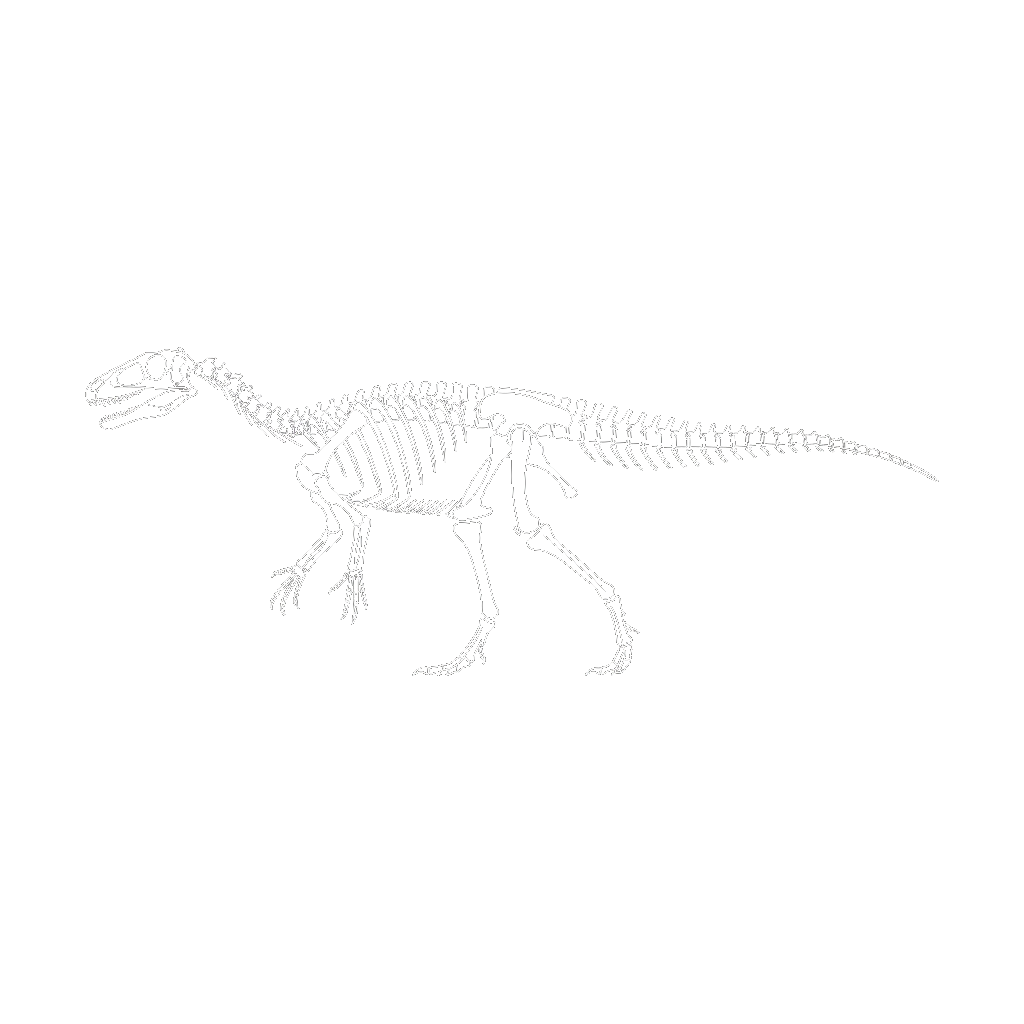
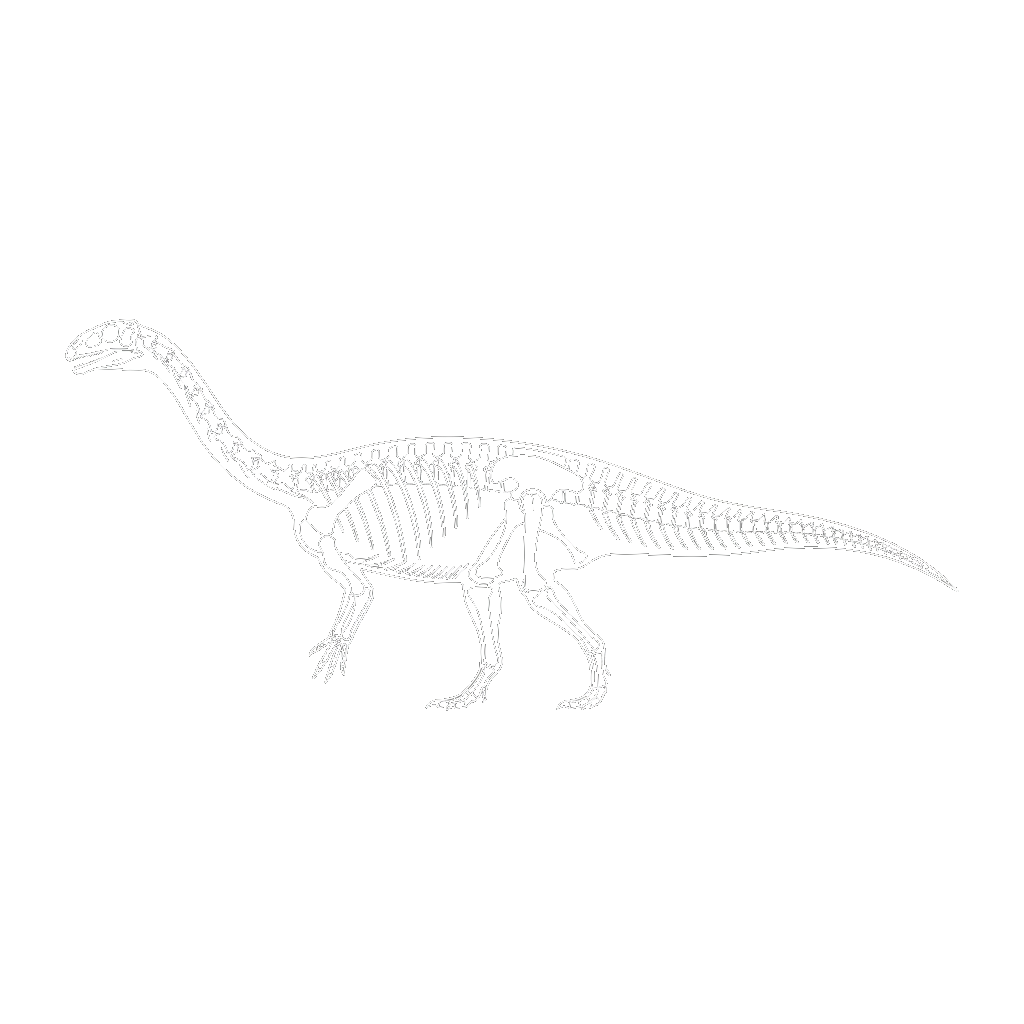
feat: ルーフェンゴサウルスの首長化・骨格見切れ修正 & Part 3 残り4種追加 (オメイサウルス, ラペトサウルス, オピストコエリカウディア, テコドントサウルス)

diff --git a/src/content/dinosaurs/opisthocoelicaudia.md b/src/content/dinosaurs/opisthocoelicaudia.md
@@ -1,0 +1,30 @@
+---
+id: "opisthocoelicaudia"
+name: "オピストコエリカウディア"
+kana: "おぴすとこえりかうでぃあ"
+scientificName: "Opisthocoelicaudia skarzynskii"
+era: "白亜紀後期"
+region: "アジア"
+diet: "植物食"
+length: "12.0m"
+weight: "8.0t"
+image: "images/opisthocoelicaudia.webp"
+group: "竜脚類"
+description: "尾の構造が非常に頑丈で、直立して高所の植物を食べられた可能性のある竜脚類。"
+bioTraits:
+  - trait: "適応"
+    value: "三点倒立直立"
+    detail: "頑丈な尾と後肢で三点支持を作り、直立して超高所の木の葉を採食した"
+  - trait: "防御"
+    value: "屈強な後部骨格"
+    detail: "非常に強固な骨盤と尾の骨格により、後方からの肉食恐竜の不意打ちを耐えた"
+cyberMetadata:
+  bottomGap: 321
+  realHeight: 3.2
+  realLength: 12
+  contentHeightPx: 379
+  sourceRes: 1024
+  zoom: 1.2
+---
+
+白亜紀後期のモンゴル（ゴビ砂漠）に生息していたチタノサウルス類。尾の関節構造（尾椎）が非常に頑丈で、お互いが噛み合う「後凹型」をしている。これを利用し、尾を第3の足として地面に突いて直立できたと考えられている。

diff --git a/src/content/dinosaurs/thecodontosaurus.md b/src/content/dinosaurs/thecodontosaurus.md
@@ -1,0 +1,30 @@
+---
+id: "thecodontosaurus"
+name: "テコドントサウルス"
+kana: "てこどんとさうるす"
+scientificName: "Thecodontosaurus antiquus"
+era: "三畳紀後期"
+region: "ヨーロッパ"
+diet: "植物食"
+length: "2.5m"
+weight: "30kg"
+image: "images/thecodontosaurus.webp"
+group: "竜脚類"
+description: "イギリスの地層から見つかった最初期の二足歩行をする小型竜脚形類。"
+bioTraits:
+  - trait: "機動"
+    value: "身軽な二足走行"
+    detail: "細身の二足歩行骨格により、三畳紀の荒地を素早く駆け回ることができた"
+  - trait: "探索"
+    value: "鋸歯状の葉状歯"
+    detail: "縁にギザギザがある歯を使い、低木の柔らかい葉や新芽を器用に切り取った"
+cyberMetadata:
+  bottomGap: 276
+  realHeight: 0.8
+  realLength: 2.5
+  contentHeightPx: 473
+  sourceRes: 1024
+  zoom: 1.8
+---
+
+三畳紀後期のイギリスで発見された、最初期の竜脚形類。後の超巨大な竜脚類とは異なり、体はトカゲのように小さく、二足歩行を行っていた。ソケット（歯槽）に収まった発達した歯を持つことから「ソケット歯のトカゲ」と呼ばれる。

diff --git a/src/content/dinosaurs/rapetosaurus.md b/src/content/dinosaurs/rapetosaurus.md
@@ -1,0 +1,30 @@
+---
+id: "rapetosaurus"
+name: "ラペトサウルス"
+kana: "らぺとさうるす"
+scientificName: "Rapetosaurus krausei"
+era: "白亜紀後期"
+region: "アフリカ"
+diet: "植物食"
+length: "15.0m"
+weight: "10.0t"
+image: "images/rapetosaurus.webp"
+group: "竜脚類"
+description: "マダガスカル島から見つかった、完全な全身化石が知られる貴重なチタノサウルス類。"
+bioTraits:
+  - trait: "防御"
+    value: "皮骨の装甲板"
+    detail: "チタノサウルス類特有の、表皮に埋め込まれた骨質のプレートで身を守った"
+  - trait: "適応"
+    value: "孤立島での繁栄"
+    detail: "マダガスカルという孤立した大陸で、頂点草食獣として多様な植物に対応した"
+cyberMetadata:
+  bottomGap: 368
+  realHeight: 3.5
+  realLength: 15
+  contentHeightPx: 288
+  sourceRes: 1024
+  zoom: 1.1
+---
+
+白亜紀後期のマダガスカル島に生息していたチタノサウルス類。幼体から成体までのほぼ完全な全身骨格化石が発見されており、謎の多いチタノサウルス類の骨格構造や成長過程を解明するための最大の鍵となった重要種。

diff --git a/src/content/dinosaurs/omeisaurus.md b/src/content/dinosaurs/omeisaurus.md
@@ -1,0 +1,30 @@
+---
+id: "omeisaurus"
+name: "オメイサウルス"
+kana: "おめいさうるす"
+scientificName: "Omeisaurus tianfuensis"
+era: "ジュラ紀中期 - 後期"
+region: "アジア"
+diet: "植物食"
+length: "20.0m"
+weight: "9.8t"
+image: "images/omeisaurus.webp"
+group: "竜脚類"
+description: "マメンチサウルス科に属する、極めて長い首が特徴的な大型竜脚類。"
+bioTraits:
+  - trait: "攻撃"
+    value: "尾のクラブ（骨塊）"
+    detail: "尾の先端にある小さな骨質のクラブを鞭のように振り回して自衛した"
+  - trait: "探索"
+    value: "超極長首による採餌"
+    detail: "長い首をクレーンのように水平・垂直に動かし、広範囲の葉を一度に食べた"
+cyberMetadata:
+  bottomGap: 277
+  realHeight: 4.5
+  realLength: 20
+  contentHeightPx: 470
+  sourceRes: 1024
+  zoom: 1
+---
+
+ジュラ紀中期から後期にかけて中国に繁栄した、マメンチサウルス科の巨大な竜脚類。首が極めて長く、体長の半分以上を首が占める。尾の先端にはコブ状の骨の塊があり、これを武器にして捕食者を追い払っていたとされる。

diff --git a/src/content/dinosaurs/lufengosaurus.md b/src/content/dinosaurs/lufengosaurus.md
@@ -19,10 +19,10 @@ bioTraits:
     value: "親指の鋭い爪"
     detail: "前肢の親指にある大きな爪を使い、防衛や植物の枝の引き寄せを行った"
 cyberMetadata:
-  bottomGap: 348
+  bottomGap: 313
   realHeight: 2
   realLength: 6
-  contentHeightPx: 329
+  contentHeightPx: 392
   sourceRes: 1024
   zoom: 1.5
 ---
